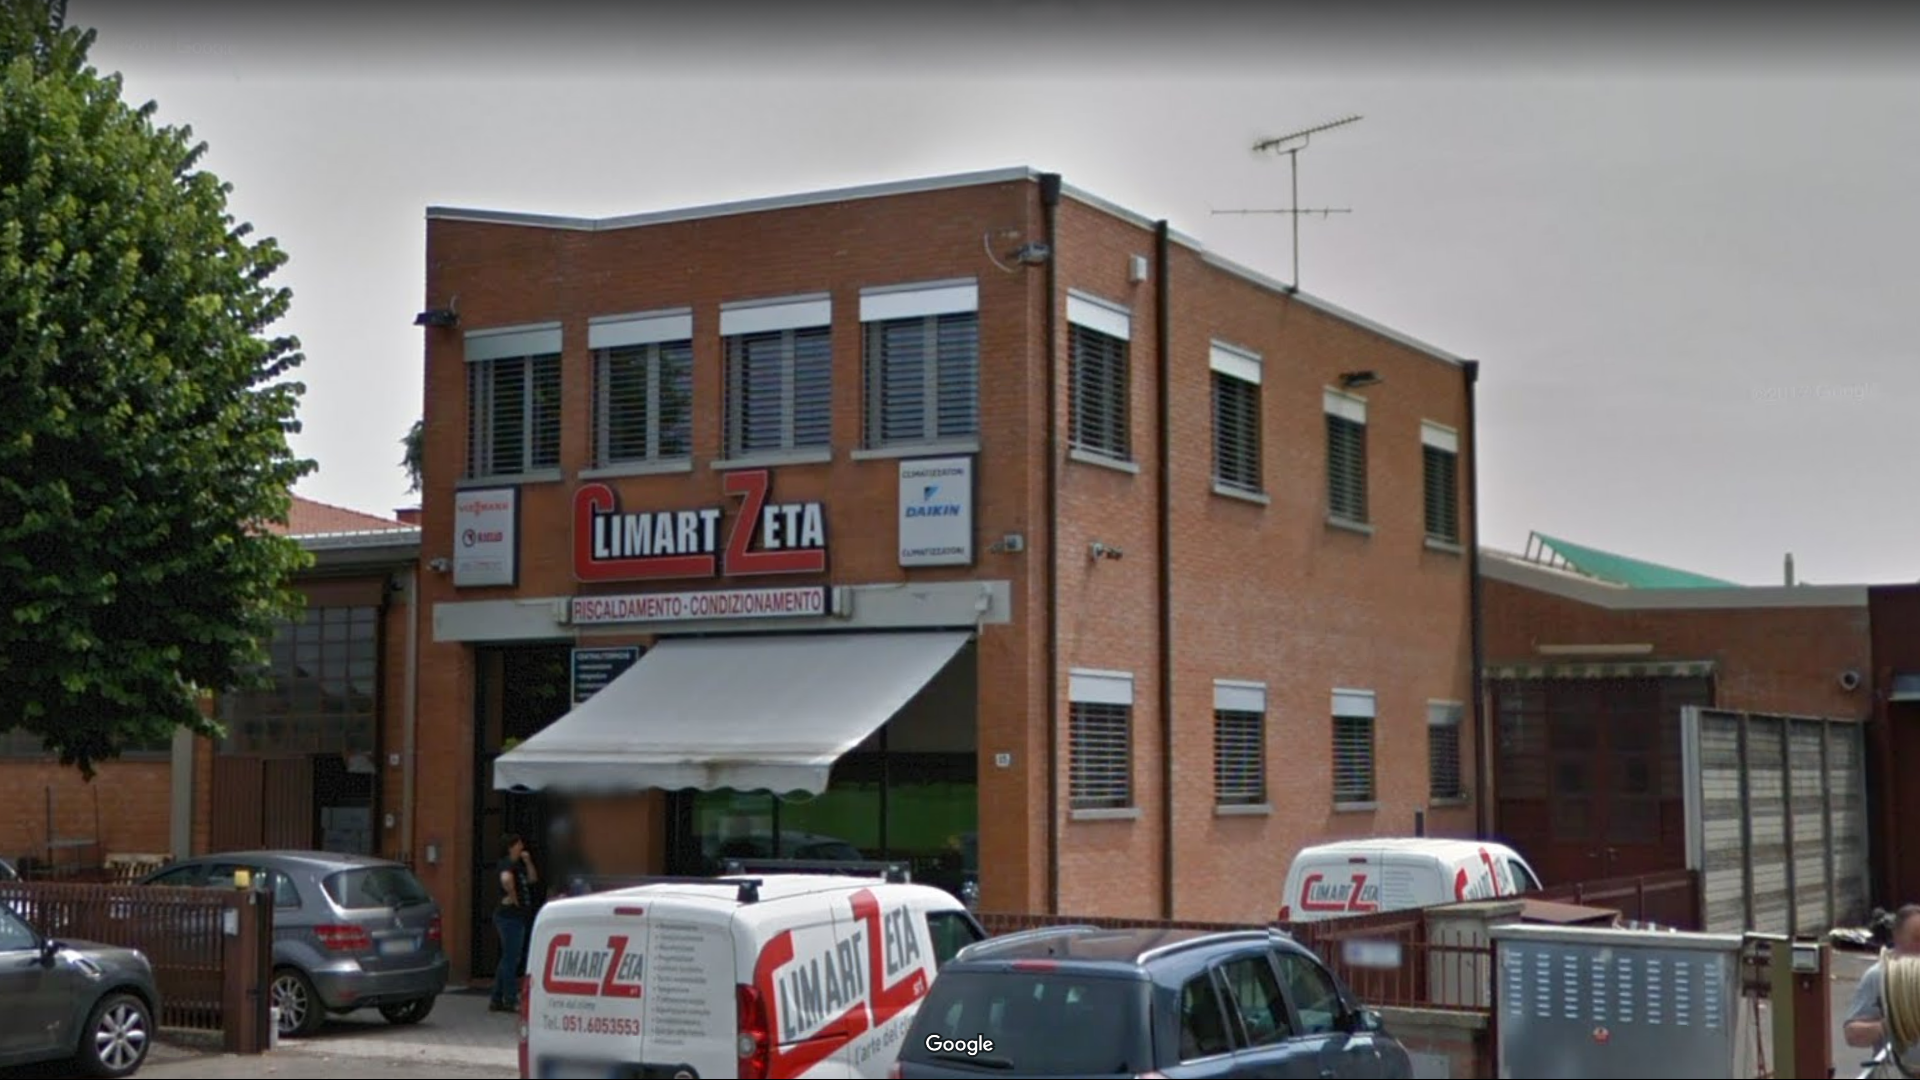
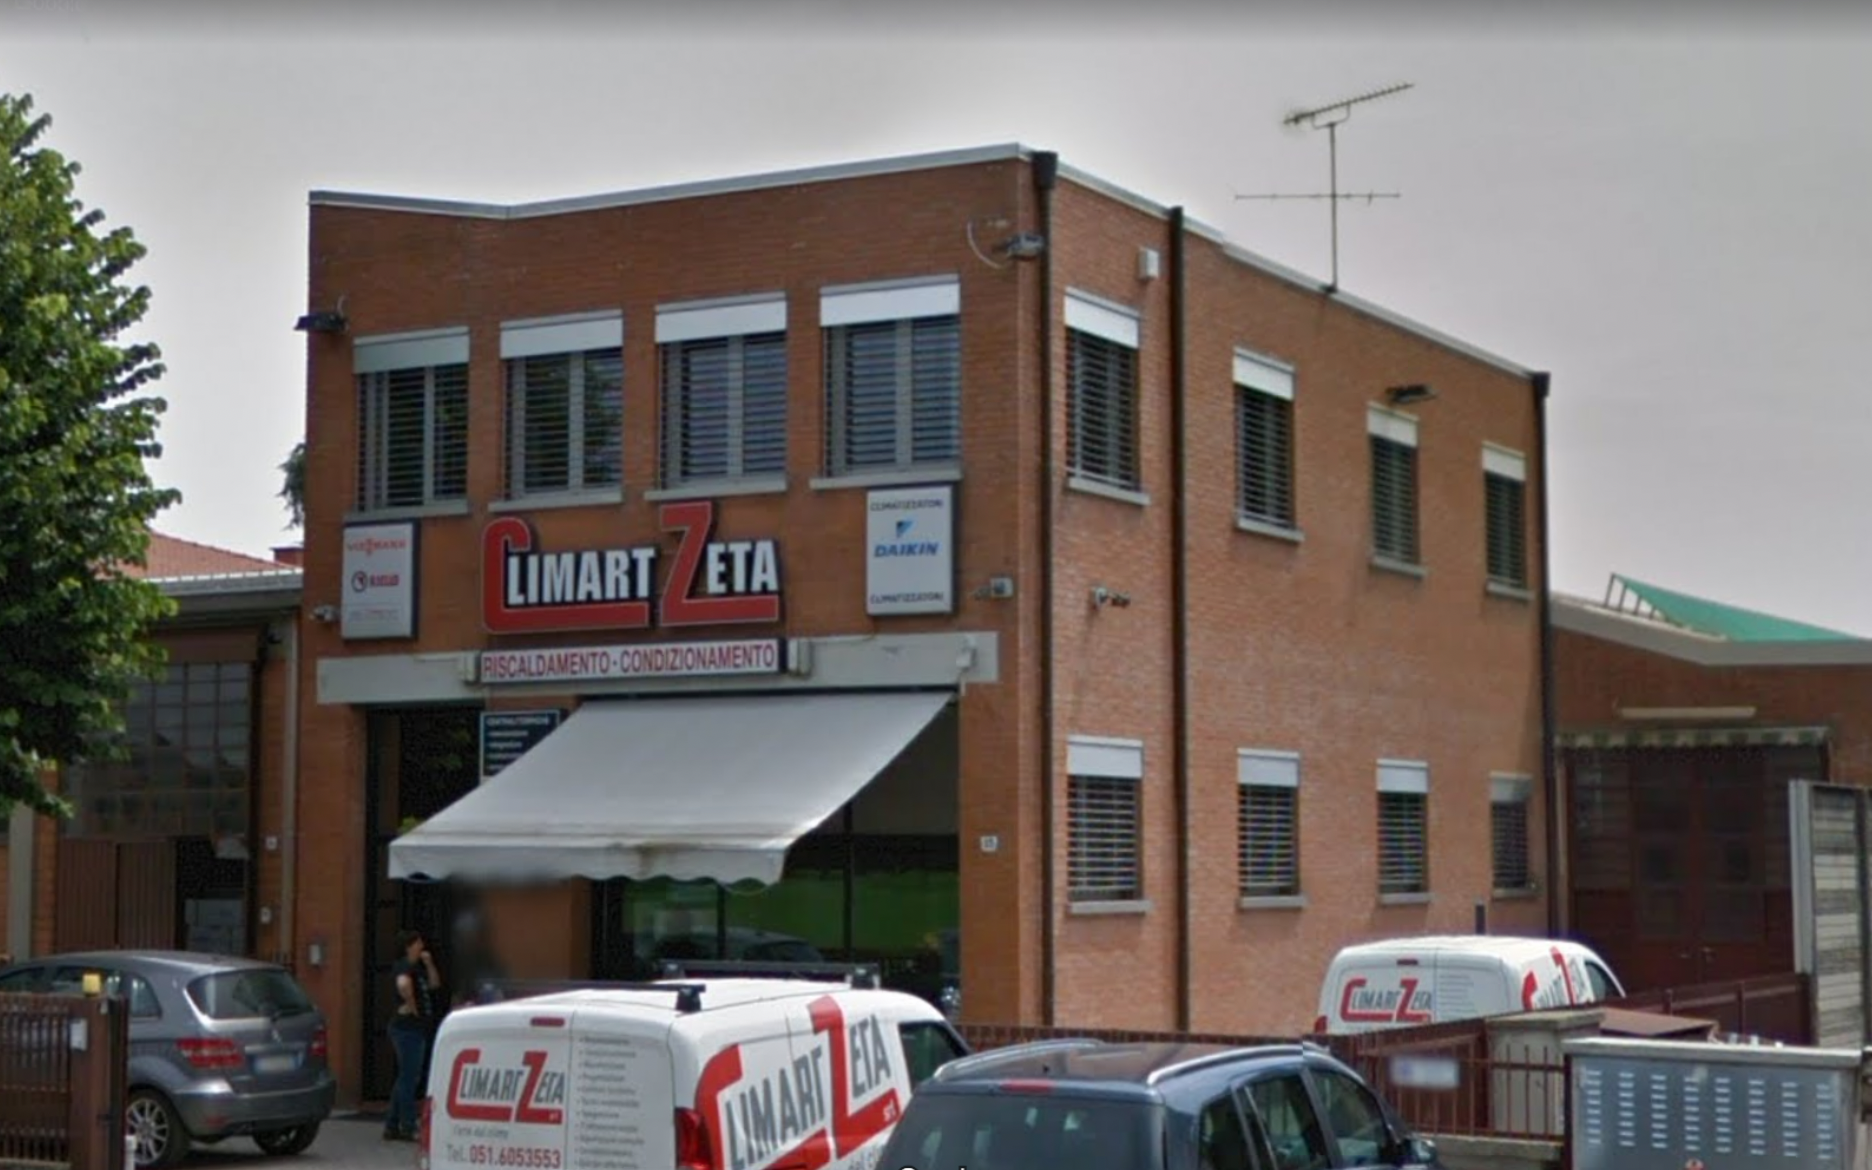
,,

diff --git a/assets/css/index.css b/assets/css/index.css
@@ -532,6 +532,7 @@ transition: all 250ms ease-in-out 0s;
     .dinamico{align-items: flex-start!important; justify-content:center!important; font-size: 30px!important; width: 100vw!important;}
     .slide{text-align: center;}
     ul.slides{text-align: center;}
+    .front{height: 100%!important;}
   }
  
   #goToServices{
@@ -666,7 +667,7 @@ transition: all 250ms ease-in-out 0s;
     top: 0;
     left: 0;
     width: 100%;
-    height: 100%;
+    height: 50vh;
     backface-visibility: hidden;
     transform-style: preserve-3d;
     border-radius: 6px;
@@ -867,3 +868,104 @@ transition: all 250ms ease-in-out 0s;
     .mobile {display: none!important;}
     .desktop {display: block!important;}
   } */
+/*Carousel Old/New Company */
+.container-carousel {
+  position: relative;
+  width: 900px;
+  height: 600px;
+  border: 2px solid white;
+}
+.container-carousel .img {
+  position: absolute;
+  top: 0;
+  left: 0;
+  width: 100%;
+  height: 100%;
+  background-size: 900px 100%;
+}
+.container-carousel .background-img {
+  background-image: url("/assets/img/sede/VecchiaCattura.PNG");
+}
+.container-carousel .foreground-img {
+  background-image: url("/assets/img/sede/CatturaNuova.PNG");
+  width: 50%;
+}
+.container-carousel .slider {
+  position: absolute;
+  -webkit-appearance: none;
+  appearance: none;
+  width: 100%;
+  height: 100%;
+  background: rgba(242, 242, 242, 0.3);
+  outline: none;
+  margin: 0;
+  transition: all 0.2s;
+  display: flex;
+  justify-content: center;
+  align-items: center;
+}
+.container-carousel .slider:hover {
+  background: rgba(242, 242, 242, 0.1);
+}
+.container-carousel .slider::-webkit-slider-thumb {
+  -webkit-appearance: none;
+  appearance: none;
+  width: 6px;
+  height: 600px;
+  background: white;
+  cursor: pointer;
+}
+.container-carousel .slider::-moz-range-thumb {
+  width: 6px;
+  height: 600px;
+  background: white;
+  cursor: pointer;
+}
+.container-carousel .slider-button {
+  pointer-events: none;
+  position: absolute;
+  width: 30px;
+  height: 30px;
+  border-radius: 50%;
+  background-color: white;
+  left: calc(50% - 18px);
+  top: calc(50% - 18px);
+  display: flex;
+  justify-content: center;
+  align-items: center;
+}
+.container-carousel .slider-button:after {
+  content: "";
+  padding: 3px;
+  display: inline-block;
+  border: solid #5D5D5D;
+  border-width: 0 2px 2px 0;
+  transform: rotate(-45deg);
+}
+.container-carousel .slider-button:before {
+  content: "";
+  padding: 3px;
+  display: inline-block;
+  border: solid #5D5D5D;
+  border-width: 0 2px 2px 0;
+  transform: rotate(135deg);
+}
+.sedeText {
+  text-transform: uppercase;
+  font-size: 50px;
+  font-weight: 700;
+  align-items: center;
+  /* Safari */
+  -webkit-transform: rotate(-90deg);
+  
+  /* Firefox */
+  -moz-transform: rotate(-90deg);
+  
+  /* IE */
+  -ms-transform: rotate(-90deg);
+  
+  /* Opera */
+  -o-transform: rotate(-90deg);
+  
+  float: left;
+}

diff --git a/who-are-we.html b/who-are-we.html
@@ -136,15 +136,22 @@
       <div class="band-center-text">
         <h2>Crediamo nel futuro della contabilizzazione.</h2>
       </div>
-
-      <div class="row">
-        <div class="col-12 text-center ">
-          <h2>Lo Staff</h2>
-
+      <div class="band-center-text" style="align-items: center;">
+        <div class="sedeText">
+          <p>La sede</p>
+         </div> 
+        <div class='container-carousel'>
+          <div class='img background-img'></div>
+          <div class='img foreground-img'></div>
+          <input type="range" min="1" max="100" value="50" class="slider" name='slider' id="slider">
+          <div class='slider-button'></div>
         </div>
       </div>
 
-      <div class="band-center-text">
+      <div class="band-center-text "style="align-items: center;">
+        <div class="sedeText" style="font-size: 25px;">
+          <p>STAFF</p>
+         </div> 
         <div class="menu">
           <div class="menu--wrapper">
             <div class="menu--item" name="awseq">

diff --git a/assets/js/index.js b/assets/js/index.js
@@ -218,3 +218,11 @@ const render = () => {
 }
 render()
 
+/*Carousel Old New*/
+$("#slider").on("input change", (e)=>{
+  const sliderPos = e.target.value;
+  // Update the width of the foreground image
+  $('.foreground-img').css('width', `${sliderPos}% `)
+  // Update the position of the slider button
+  $('.slider-button').css('left', `calc(${sliderPos}% - 18px)`)
+}); 
